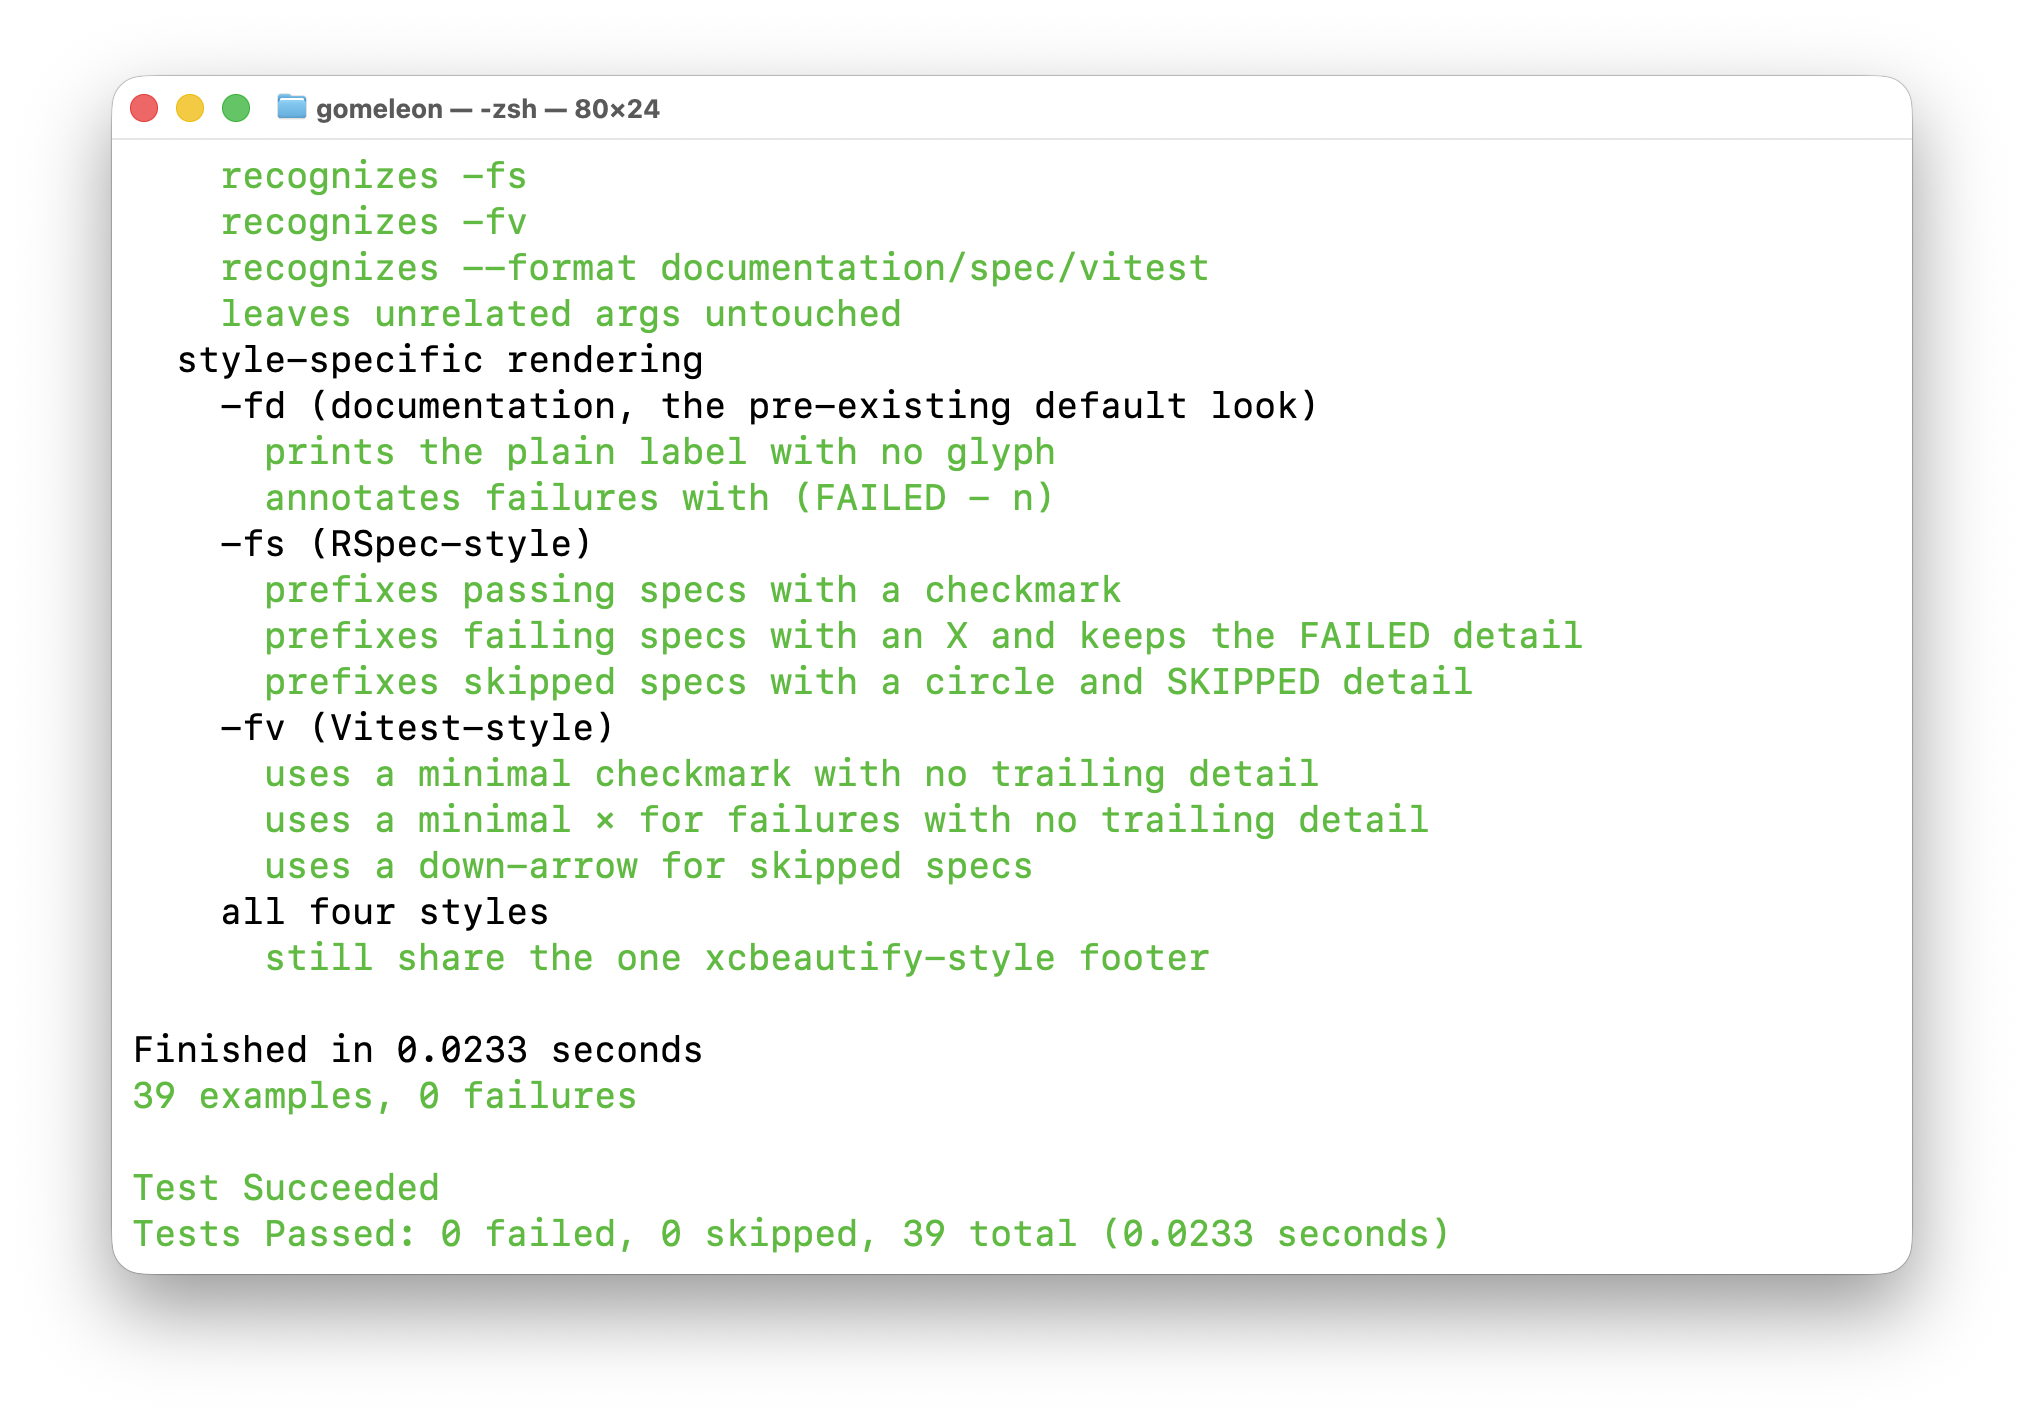
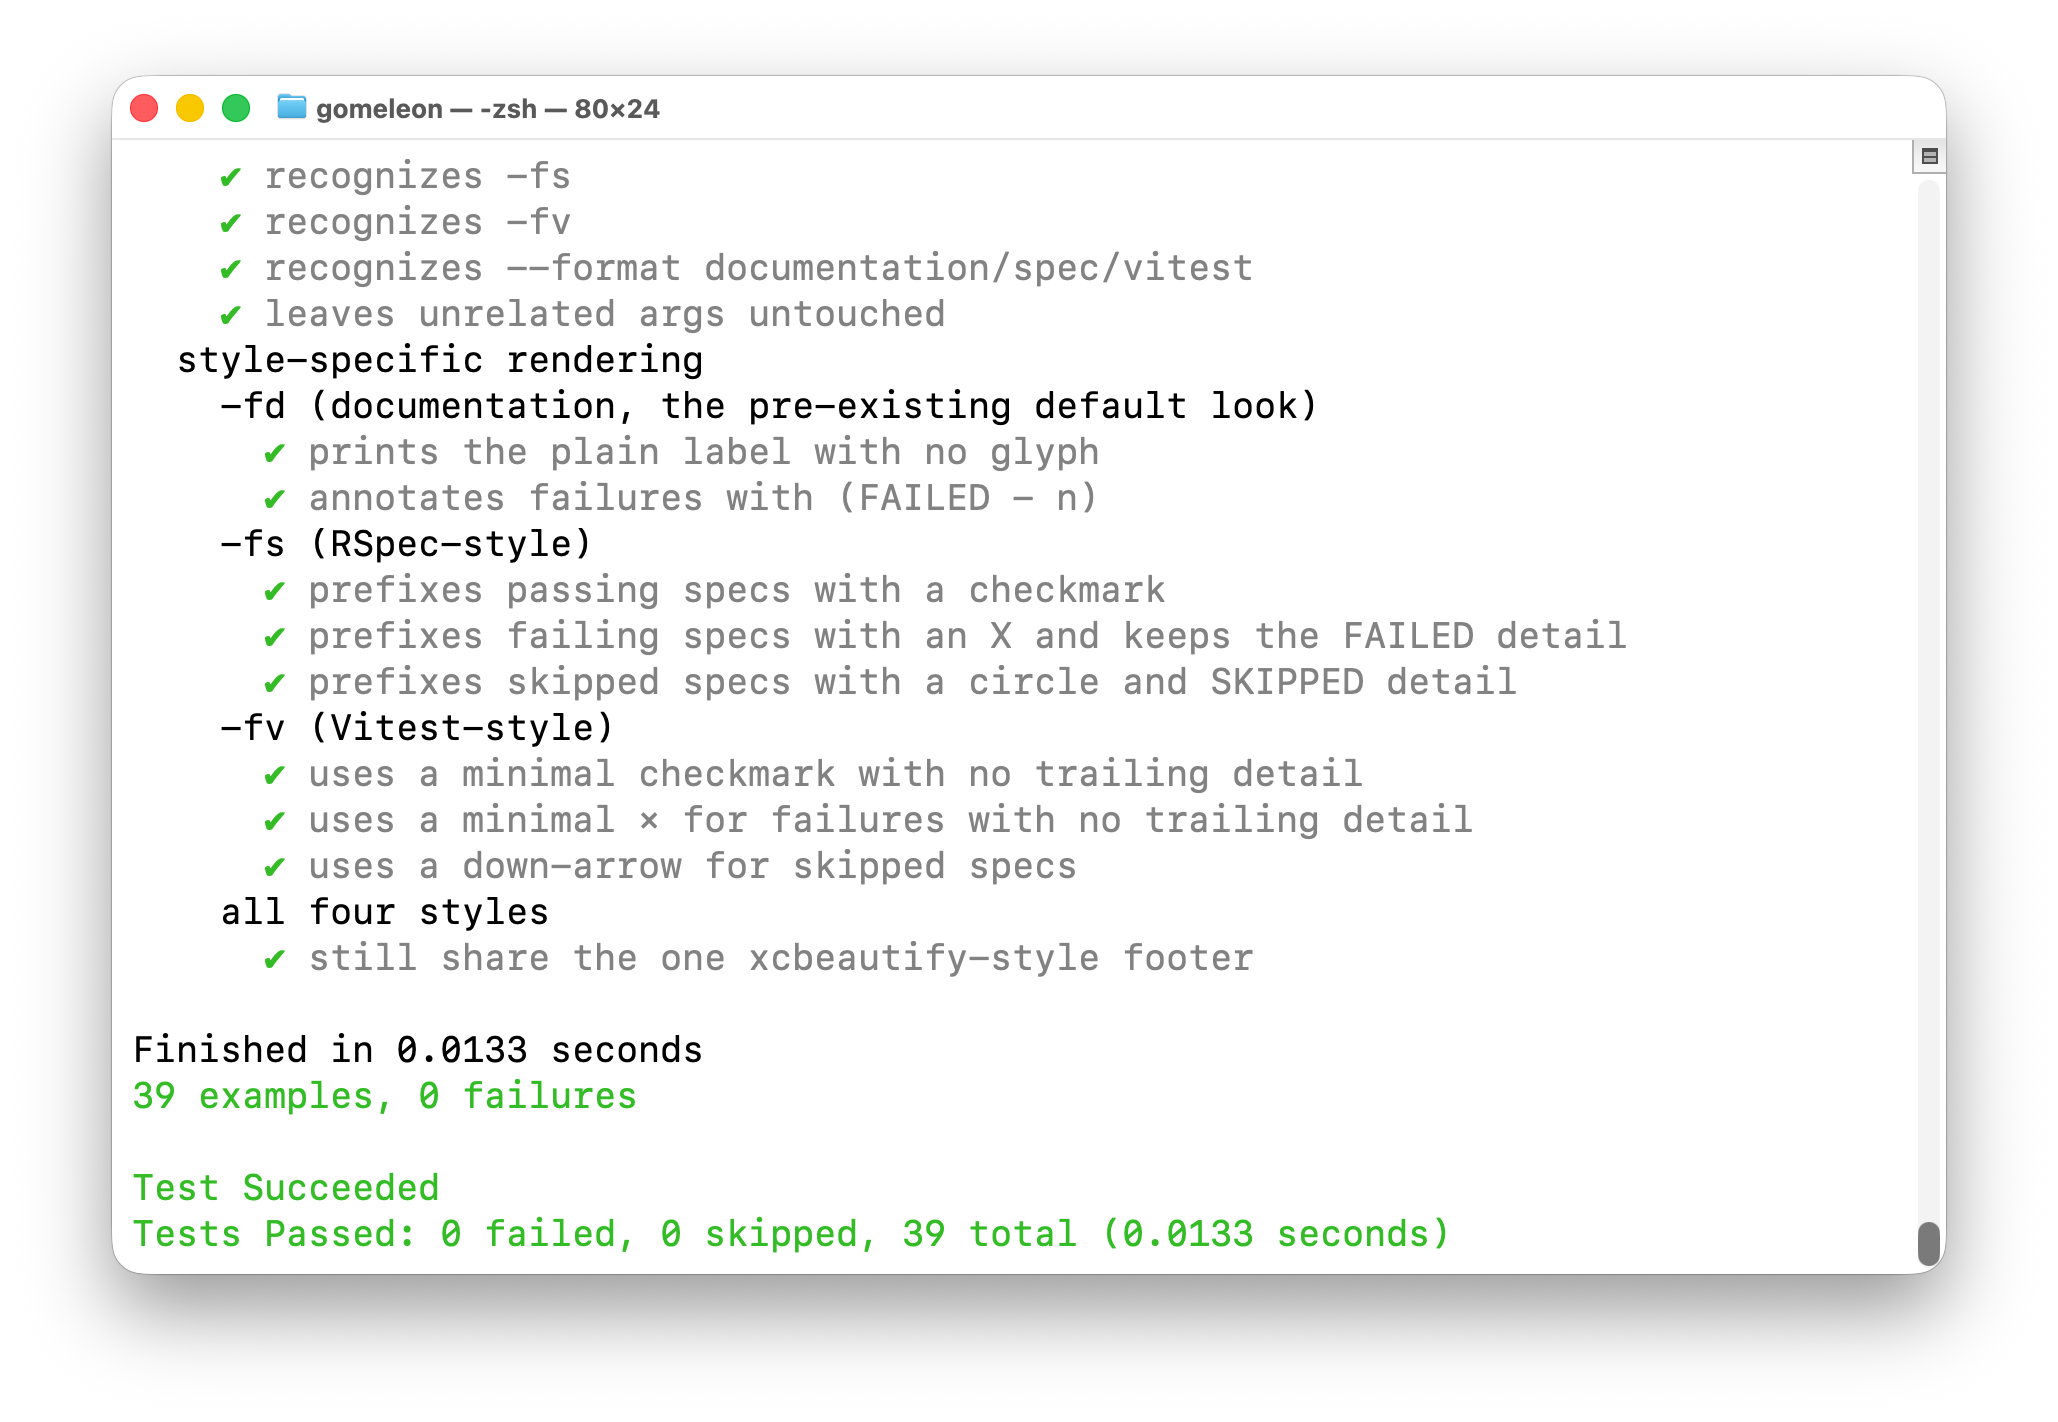
README: restructure to shared 5-section shape, promote Formats to top-level Output styles; Makefile: make test now runs through the gomeleon binary itself instead of raw ginkgo; refresh dogfood screenshot

diff --git a/README.md b/README.md
@@ -7,12 +7,11 @@
 
 ![Example Screenshot](docs/example.png)
 
-RSpec-style "documentation" output for teams on [Ginkgo](https://github.com/onsi/ginkgo)/[Gomega](https://github.com/onsi/gomega) --
+RSpec/Mocha/Vitest-style output for teams on [Ginkgo](https://github.com/onsi/ginkgo)/[Gomega](https://github.com/onsi/gomega) --
 not just teams avoiding them. If a suite has migrated to (or started on)
 Ginkgo/Gomega, `gomeleon` wraps the real `ginkgo` CLI (or reads its JSON
-report directly) and reformats the result into [RSpec](https://github.com/rspec/rspec)'s
-nested "documentation" style, so the same readable, indented tree still
-shows up in the console either way.
+report directly) and reformats the result into a nested, readable tree,
+in any of four familiar conventions.
 
 ## Installation
 
@@ -52,16 +51,10 @@ Or format an existing report file directly:
 gomeleon report.json
 ```
 
-### Formats
-
-`gomeleon` supports four leaf-line formats:
-
-| Flag | `--format` equivalent | Look |
-| --- | --- | --- |
-| _(none)_ | | Classic — glyph plus full detail (the original, default look) |
-| `-fd` | `--format documentation` | Plain colored label, no glyph (RSpec's "documentation" format) |
-| `-fs` | `--format spec` | Glyph plus grayed-out label (RSpec's "spec" format) |
-| `-fv` | `--format vitest` | Minimal glyph, no trailing detail (Vitest's look) |
+Flags: default (no flag) renders the classic style (glyph plus full detail);
+`-fd` renders RSpec's documentation format; `-fs` renders Mocha/Jest's spec
+format; `-fv` renders Vitest's tree format. `--format documentation`,
+`--format spec`, and `--format vitest` are the long forms:
 
 ```
 gomeleon -fd ./...
@@ -70,7 +63,18 @@ gomeleon -fv ./...
 gomeleon --format spec ./...
 ```
 
-All four formats share one footer (the xcbeautify-style `Test Succeeded`/`Tests Passed` block).
+## Output styles
+
+Four named styles, each matching a convention from a familiar test runner.
+All four share one footer (the xcbeautify-style `Test Succeeded`/`Tests
+Passed` block).
+
+| Flag | Convention | Look |
+|---|---|---|
+|   | Our base formatter | Glyph + full detail, failures add `(FAILED - N)` |
+| -fd | RSpec's doc format | Plain colored label, no glyph |
+| -fs | Mocha's spec format | Glyph + grayed-out label |
+| -fv | Vitest's own tree | Minimal glyph, no trailing detail |
 
 Sample leaf lines for a passing, a failing, and a skipped spec, across all four formats:
 
@@ -114,12 +118,19 @@ Test Succeeded
 Tests Passed: 0 failed, 0 skipped, 3 total (0.0300 seconds)
 ```
 
+## Things to know
+
+`gomeleon` is strictly a formatter over `ginkgo`'s own output, not a
+testing framework, so it doesn't prescribe how to structure specs. For how
+to write Ginkgo/Gomega tests, see
+[Ginkgo's own docs](https://onsi.github.io/ginkgo/).
+
 ## Development
 
 ```
 make build    # go build -o gomeleon
 make install  # builds, then moves the binary to ~/go/bin/
-make test     # verbose, dogfoods gomeleon on its own Ginkgo suite
+make test     # verbose, dogfoods gomeleon on its own Ginkgo suite in -fs style
 make lint     # golangci-lint
 make check    # terse: silent on success, full log on failure
 ```
